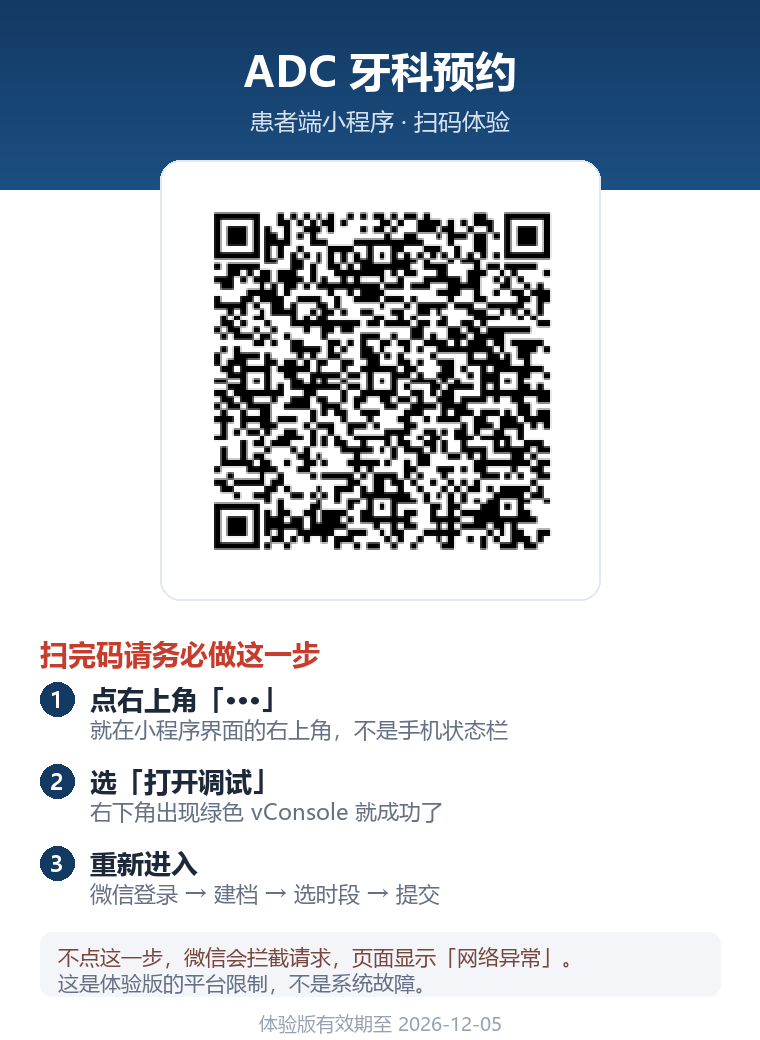
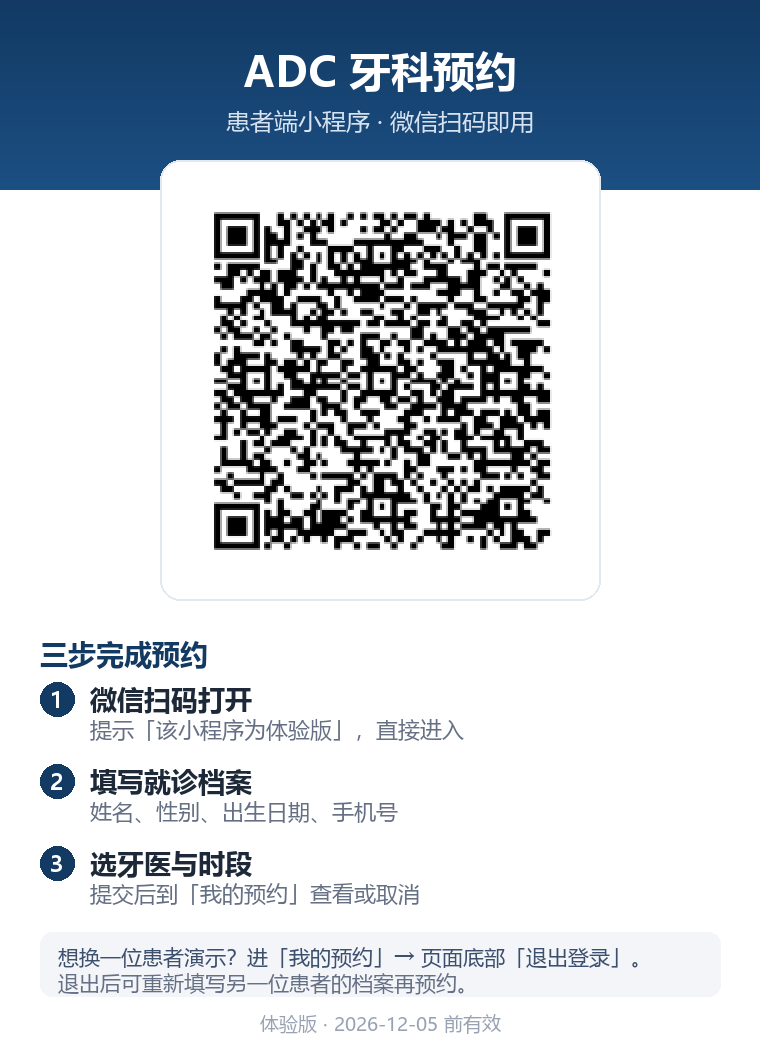
feat: 云函数转发上线，体验版免备案免调试；小程序加退出登录；二维码卡改扫码即用

Changed region(s): [[0.0303, 0.6154, 0.8171, 1.0], [0.3026, 0.0923, 0.6961, 0.1538]]

diff --git a/MINIAPP-TRIAL.md b/MINIAPP-TRIAL.md
@@ -1,89 +1,121 @@
-# 患者端小程序体验版：已上线
+# 患者端小程序：体验版已上线（免备案、免调试）
 
-> **状态：完成。** 2026-11-28 上传并设为体验版，老师可直接扫码。
->
-> | 项目 | 值 |
-> | --- | --- |
-> | 小程序 AppID | `wx99ed6b99097f132c` |
-> | 上传版本 | `1.0.0`（26.3 KB） |
-> | 体验版二维码 | [`miniapp-shots/trial-qr.png`](miniapp-shots/trial-qr.png)，**2026-12-05 前有效** |
-> | 接口地址 | `http://47.111.70.208:8080`（公网 ECS） |
+> **状态：完成。** 2026-11-28 上线，老师微信扫码即可使用，不需要任何设置。
 
----
-
-## 一、老师怎么用
-
-1. 微信扫 [`miniapp-shots/trial-qr.png`](miniapp-shots/trial-qr.png)（提示「该小程序为体验版」）
-2. **右上角 `···` → 「打开调试」**（右下角出现绿色 vConsole，只需第一次）
-3. 微信登录 → 完善就诊档案 → 选牙医与时段 → 提交 → 我的预约 → 取消
-
-### 为什么必须点「打开调试」
-
-体验版默认只允许请求**已备案的 HTTPS 域名**，而本系统跑在明文 IP 上。
-打开调试后，基础库不再校验域名白名单、证书与 TLS 版本，IP 也能直连。
-依据：微信官方《申请测试号》文档原文「在真机上如需跳过网络请求域名的校验，
-需要点击右上角选项，选择**打开调试**即可」。正式版没有这个开关，才强制白名单。
-
-### 扫不开怎么办
-
-| 现象 | 处理 |
+| 项目 | 值 |
 | --- | --- |
-| 「你不在体验名单中」 | 公众平台「管理 → 成员管理 → 体验成员」加微信号；新版也可在弹窗里点「申请体验权限」由管理员批准 |
-| 提示二维码已过期 | 公众平台「管理 → 版本管理 → 体验版」重新下载，**不用重新上传代码** |
-| 打开后一片空白 / 网络异常 | 没点「打开调试」；点完要等小程序重启一次 |
+| 小程序 AppID | `wx99ed6b99097f132c` |
+| 当前体验版 | `1.0.3`（含退出登录） |
+| 云开发环境 | `adc-d2gi9s6468a75d64a` |
+| 云函数 | `adcApi`（透明转发，只放行 `/api/`） |
+| 后端 | `http://47.111.70.208:8080`（阿里云 ECS） |
+| 二维码 | [`miniapp-shots/trial-qr-card.png`](miniapp-shots/trial-qr-card.png)，2026-12-05 前有效 |
 
 ---
 
-## 二、改代码后怎么重新发
+## 一、为什么不会再"网络异常"
+
+微信**体验版/正式版**只允许请求**已备案的 HTTPS 域名**，而本系统后端是明文 IP + 8080 端口，
+直连必被拦（`request:fail url not in domain list`）。而买域名走 ICP 备案要 7–20 个工作日。
+
+解法是加一层**微信云开发云函数**做转发：
+
+```
+小程序 ── wx.cloud.callFunction('adcApi') ──▶ 云函数（腾讯云）
+                                                 │ http 转发
+                                                 ▼
+                                        阿里云 ECS :8080
+```
+
+`wx.cloud.callFunction` 走微信自有通道，**完全不校验 request 合法域名**，因此：
+
+- 不用买域名、不用备案
+- 不用打开调试、不会出现 vConsole 绿点
+- 后端一行代码没改，鉴权仍由后端判定
+
+云函数只做转发：只放行 `/api/` 开头的路径（防 SSRF），原样带上 `Authorization` 头，
+零依赖（Node 原生 `http`），部署包 1.8 KB。
+
+### 两个通道并存
+
+`config.js` 里的 `CLOUD_ENV` 决定走哪条：
+
+| CLOUD_ENV | 行为 | 适用 |
+| --- | --- | --- |
+| 有值 | `wx.cloud.callFunction` 转发 | 体验版、正式版 |
+| 为空 | `wx.request` 直连 | 开发者工具、真机调试 |
+
+所以本地开发那套（详情 → 勾选「不校验合法域名」→ 真机调试）没被破坏。
+
+---
+
+## 二、老师怎么用
+
+1. 微信扫 [`miniapp-shots/trial-qr-card.png`](miniapp-shots/trial-qr-card.png)
+2. 提示「该小程序为体验版」→ 直接进入
+3. 微信登录 → 填写就诊档案 → 选牙医与时段 → 提交 → 「我的预约」查看或取消
+
+**换一位患者演示**：进「我的预约」→ 页面底部「**退出登录**」→ 重新建档。
+
+> 扫码提示「你不在体验名单中」：公众平台「管理 → 成员管理 → 体验成员」加微信号；
+> 新版也支持在弹窗里点「申请体验权限」，由管理员批准。
+
+---
+
+## 三、改代码后怎么重新发
 
 ```bash
-# 1) 确认 project.config.json 的 appid 就是 wx99ed6b99097f132c
-# 2) 命令行上传（会顺带拉起 IDE 服务，无需手动点开发者工具）
-D:/ADC/tools/wechat-devtools/cli.bat islogin
+# 1) 确认 project.config.json 的 appid 是 wx99ed6b99097f132c
+# 2) 改了云函数才需要重新部署
+D:/ADC/tools/wechat-devtools/cli.bat cloud functions deploy \
+    --env adc-d2gi9s6468a75d64a --names adcApi \
+    --project "D:/ADC/apps/adc-miniapp"
+
+# 3) 上传小程序
 D:/ADC/tools/wechat-devtools/cli.bat upload \
-    --project "D:/ADC/apps/adc-miniapp" -v 1.0.1 -d "改了什么"
-# 3) 公众平台 → 管理 → 版本管理 → 开发版本 → 右侧下拉箭头 → 选为体验版
+    --project "D:/ADC/apps/adc-miniapp" -v 1.0.4 -d "改了什么"
+
+# 4) 公众平台 → 管理 → 版本管理 → 开发版本 → 下拉箭头 → 选为体验版
+#    再点「体验版」页签重新下载二维码（旧码会失效）
 ```
 
-体验版**不需要审核、不需要备案**，点完立刻生效；同一时间只能有一个体验版。
-二维码有效期约 7 天，过期重新下载即可。
+体验版不需要审核、不需要备案，点完立刻生效；同一时间只能有一个体验版。
 
 ---
 
-## 三、踩过的坑（写下来避免重犯）
+## 四、踩过的坑
 
-**第一次上传传错了账号。** `project.config.json` 里配的是 `wxf083cece54d9a509`，
-而后台登录的是 `wx99ed6b99097f132c`，代码进了另一个号，后台「开发版本」永远为空，
-所以找不到「选为体验版」按钮——不是浏览器问题，也不是账号没认证。
+**① 上传传错了账号。** `project.config.json` 里原先是另一个账号 `wxf083cece54d9a509`，
+代码传到了那个号，后台「开发版本」永远为空，也就找不到「选为体验版」。
+**判断依据**：命令行输出里的 `Using AppID: xxx`，必须和后台「开发设置」一致。
 
-**教训**：上传后若后台看不到版本，第一件事是核对
-`project.config.json` 的 `appid` 与后台「开发设置」里的 AppID 是否一致。
-命令行输出里的 `Using AppID: xxx` 是权威依据，上传前后都该看一眼。
+**② 明文 IP 在体验版必被拦。** 这不是 bug，是微信的版本策略；
+调试模式能豁免，但不能要求老师每次去点，所以最终改成云函数方案。
 
----
-
-## 四、一个已知限制
-
-后端 `adc.wx.app-id` / `app-secret` 仍是空值，走「开发模式」：openid 由 `wx.login` 的 code 派生。
-因为 token 缓存在手机本地（7 天有效），老师演示期间不会掉身份；
-但**清缓存或换手机**会被当成新用户，「我的预约」里看不到之前的记录。
-
-彻底解决：在服务器 `.env` 填两行后重启 api 容器（`docker-compose.yml` 已预置注入点）：
-
-```bash
-cd /root/adc
-vi .env      # ADC_WX_APP_ID=wx99ed6b99097f132c / ADC_WX_APP_SECRET=***
-docker compose up -d api
-```
+**③ 云函数别做成开放代理。** 只放行 `/api/`，否则任何人都能拿它当跳板。
 
 ---
 
-## 五、正式发布才需要的（本课程不需要）
+## 五、已知限制
+
+后端 `adc.wx.app-id` / `app-secret` 仍是空值，走"开发模式"：openid 由 `wx.login` 的 code 派生。
+带来两个后果：
+
+- **退出登录 = 换了一个新身份**，正好可以用来模拟不同患者（演示需要）；
+- 清缓存或换手机也会变成新用户，「我的预约」里看不到之前的记录。
+
+要固定身份，在服务器 `.env` 填 `ADC_WX_APP_ID` / `ADC_WX_APP_SECRET` 后重启 api 容器
+（`docker-compose.yml` 已预置注入点）。但那样"退出登录换患者"就失效了，需自行取舍。
+
+---
+
+## 六、正式发布才需要的（本课程不需要）
 
 | 门槛 | 说明 |
 | --- | --- |
-| ICP 备案 | 域名 + 主体一致，7–20 个工作日 |
+| ICP 备案 | 域名 + 主体一致，7–20 个工作日（用了云函数可不用域名，但正式版仍建议备案） |
 | 服务类目资质 | 医疗类需《医疗机构执业许可证》；个人主体做不了，须企业主体 |
 | 代码审核 | 提交后微信人工审核，1–7 天 |
+| 云开发计费 | 免费环境在**未发布上线**阶段免费；发布上线后第 15 天起需转付费 |
 
-本课程的交付形态是**体验版 + 调试模式**：合规、够用、当天可交付。
+本课程的交付形态是**体验版 + 云函数转发**：零成本、免备案、扫码即用。

diff --git a/SYSTEM.md b/SYSTEM.md
@@ -97,19 +97,20 @@ system/
 
 ## 六、患者端小程序（可扫码体验）
 
-<img src="miniapp-shots/trial-qr-card.png" width="320" alt="患者端小程序体验版二维码，扫码后请点右上角打开调试">
+<img src="miniapp-shots/trial-qr-card.png" width="320" alt="患者端小程序体验版二维码">
 
-**扫码后请务必点「打开调试」**，图里已经把三步印出来了。
+**微信扫这张码就能用，扫码后不需要做任何设置。**
 
-> **为什么必须点「打开调试」**：体验版默认只允许请求**已备案的 HTTPS 域名**，
-> 而本系统跑在明文 IP（`http://47.111.70.208:8080`）上。打开调试后，基础库不再校验
-> 域名白名单与证书，IP 也能直连。这是微信给体验版/预览版留的调试通道，正式版才强制。
->
-> **实测结论（2026-11-28）**：同一台手机、同一个码，**不点调试必报「网络异常」，点了立刻正常**。
-> 所以这不是系统没部署好，是微信的版本策略——扫码后请务必先点这一步。
->
+> **为什么不会卡在"网络异常"**：微信体验版只允许请求**已备案的 HTTPS 域名**，
+> 而后端是明文 IP。本系统在小程序与后端之间加了一层**微信云开发云函数**
+> （`system/apps/adc-miniapp/cloudfunctions/adcApi`）做透明转发——云函数调用走微信自有通道，
+> **不校验域名白名单**，因此既不需要备案域名，也不需要打开调试。鉴权仍由后端判定，
+> 云函数只转发 `/api/` 请求，不做任何业务处理。
+
 > **扫码提示"不在体验名单中"**：让管理员在公众平台「管理 → 成员管理 → 体验成员」
 > 添加你的微信号；新版也支持在弹窗里点「申请体验权限」，由管理员批准。
+>
+> **想换一位患者演示**：进「我的预约」→ 页面底部「**退出登录**」→ 重新填写另一位患者的档案即可。
 >
 > **二维码有效期约 7 天**（本张到 2026-12-05）。过期后到公众平台
 > 「管理 → 版本管理 → 体验版」重新下载即可，不用重新上传代码。

diff --git a/README.md b/README.md
@@ -20,10 +20,10 @@
 
 > 系统已上线：<http://47.111.70.208:8080/>　演示口令：`123456`（账号与操作步骤见 SYSTEM.md）
 >
-> 患者端小程序（UC-10）已可扫码体验 —— **微信扫码后点右上角 `···` →「打开调试」**，
+> 患者端小程序（UC-10）已可扫码体验 —— **微信扫码即用，无需任何设置**，
 > 详见 [SYSTEM.md 第六节](SYSTEM.md#六患者端小程序可扫码体验)。
 
-<img src="miniapp-shots/trial-qr-card.png" width="300" alt="患者端小程序体验版二维码（扫码后请点右上角···打开调试）">
+<img src="miniapp-shots/trial-qr-card.png" width="300" alt="患者端小程序体验版二维码">
 
 <sub>体验版二维码，2026-12-05 前有效；过期后重新下载即可，无需改代码。</sub>
 
